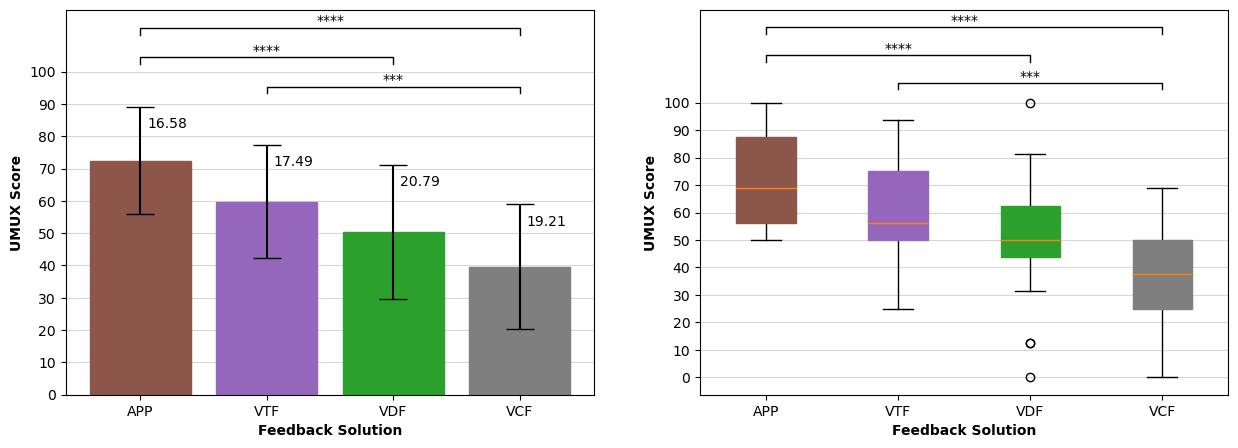
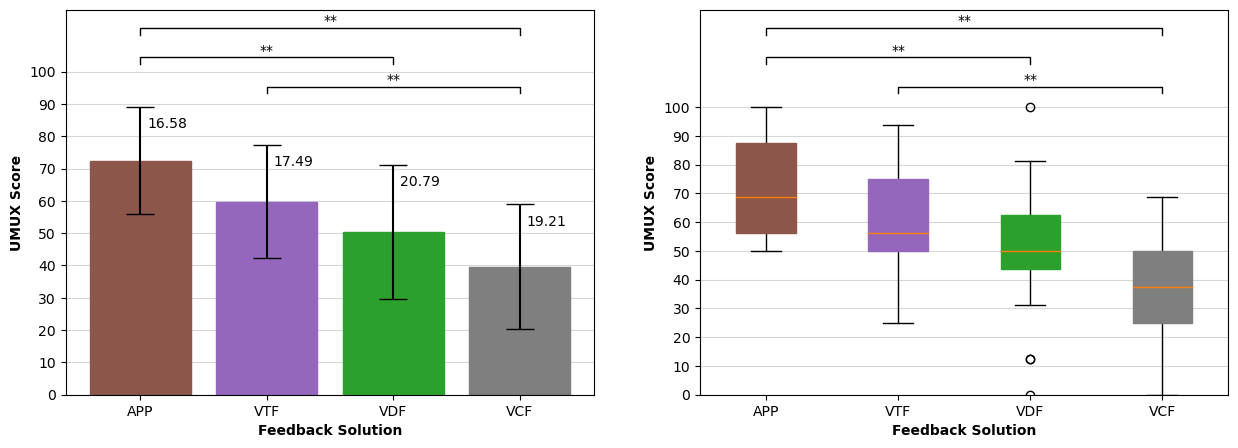
Corrected some minor errors in the UMUX plot

diff --git a/Plotting/source/umux.py b/Plotting/source/umux.py
@@ -51,9 +51,9 @@ for i in range(4):
 
 # annotate barplot with significance lines
 maxmean = max(means) + stdevs[means.index(max(means))]
-annotate_significance(axes[0], 1, 3, maxmean + (maxmean * 0.05), "***")  #0.0004p = ***
-annotate_significance(axes[0], 0, 2, maxmean + (maxmean * 0.15), "****") #0.0001p = ****
-annotate_significance(axes[0], 0, 3, maxmean + (maxmean * 0.25), "****") #0.0000p = ****
+annotate_significance(axes[0], 1, 3, maxmean + (maxmean * 0.05), "**")  
+annotate_significance(axes[0], 0, 2, maxmean + (maxmean * 0.15), "**") 
+annotate_significance(axes[0], 0, 3, maxmean + (maxmean * 0.25), "**") 
 
 # --- box plot ---
 # generate boxplot and set colors
@@ -65,9 +65,9 @@ for patch in boxplot["boxes"]:
     i += 1
 
 # annotate boxplot with significance lines
-annotate_significance(axes[1], 2, 4, 105, "***")  #0.0004p = ***
-annotate_significance(axes[1], 1, 3, 115, "****") #0.0001p = ****
-annotate_significance(axes[1], 1, 4, 125, "****") #0.0000p = ****
+annotate_significance(axes[1], 2, 4, 105, "**")  
+annotate_significance(axes[1], 1, 3, 115, "**") 
+annotate_significance(axes[1], 1, 4, 125, "**") 
 
 
 # global plot settings
@@ -75,6 +75,7 @@ for ax in axes:
     ax.yaxis.grid(True, alpha=0.5)
     ax.set_axisbelow(True)
     
+    ax.set_ylim(ymin=0)
     ax.set_yticks(range(0, 100 + 1, 10))
     ax.set_ylabel("UMUX Score", weight="bold")
     ax.set_xlabel("Feedback Solution", weight="bold")
